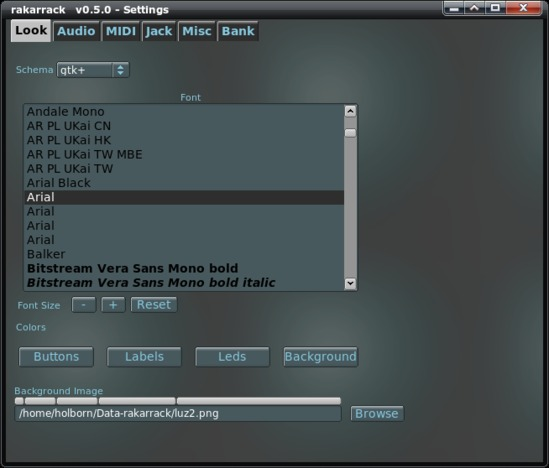
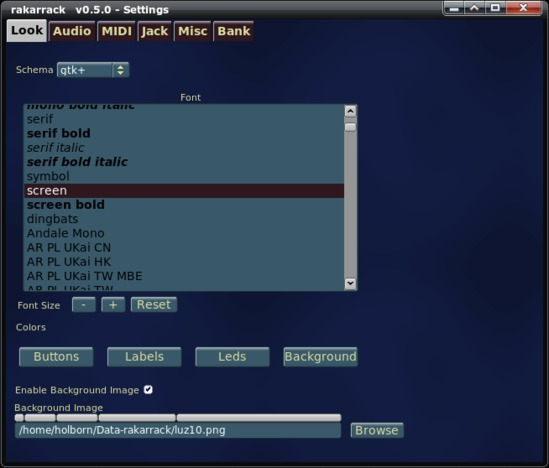
help updated
modified:   help/help.html
	modified:   help/imagenes/settings.jpg

diff --git a/doc/help/help.html b/doc/help/help.html
@@ -394,6 +394,9 @@ plastic.</p>
 <p>Increase/Decrease the font size of some windows.The Reset
 button set the relative value to "0"</p>
 
+<p><b>Enable Background Image</b></p>
+<p>Enable background image or use background color</p>
+
 <p><b>Background Image</b></p>
 <p>You can also select a PNG background image clicking
 on the 'Browse' button and also adjust the font sizes. Some background
@@ -2314,7 +2317,9 @@ switched between two different stepping modes by the "Amp" switch.</p>
       the next one, the semitone is adjusted by the sequence sliders,
       semitone = "slider value / 10".</p>
 <p><i>Chorus</i>: Frequency Shifter, this mode use small amount of pitch
-      shifter in order to generate a chorus effect.</p>
+      shifter in order to generate a chorus effect.With St.df=0 normal
+      operation, with St.df=1 added Extra Stereo, with St.df=2, Q can
+      control the pan.</p>
 <p><b>Amp</b>: Invoke amplitude modulation when available in the mode. In
       Frequency shifter modes Amp is used to switch down the frequency.</p>
 <p>Finally, here is a reward for those who read the Help:</p>
